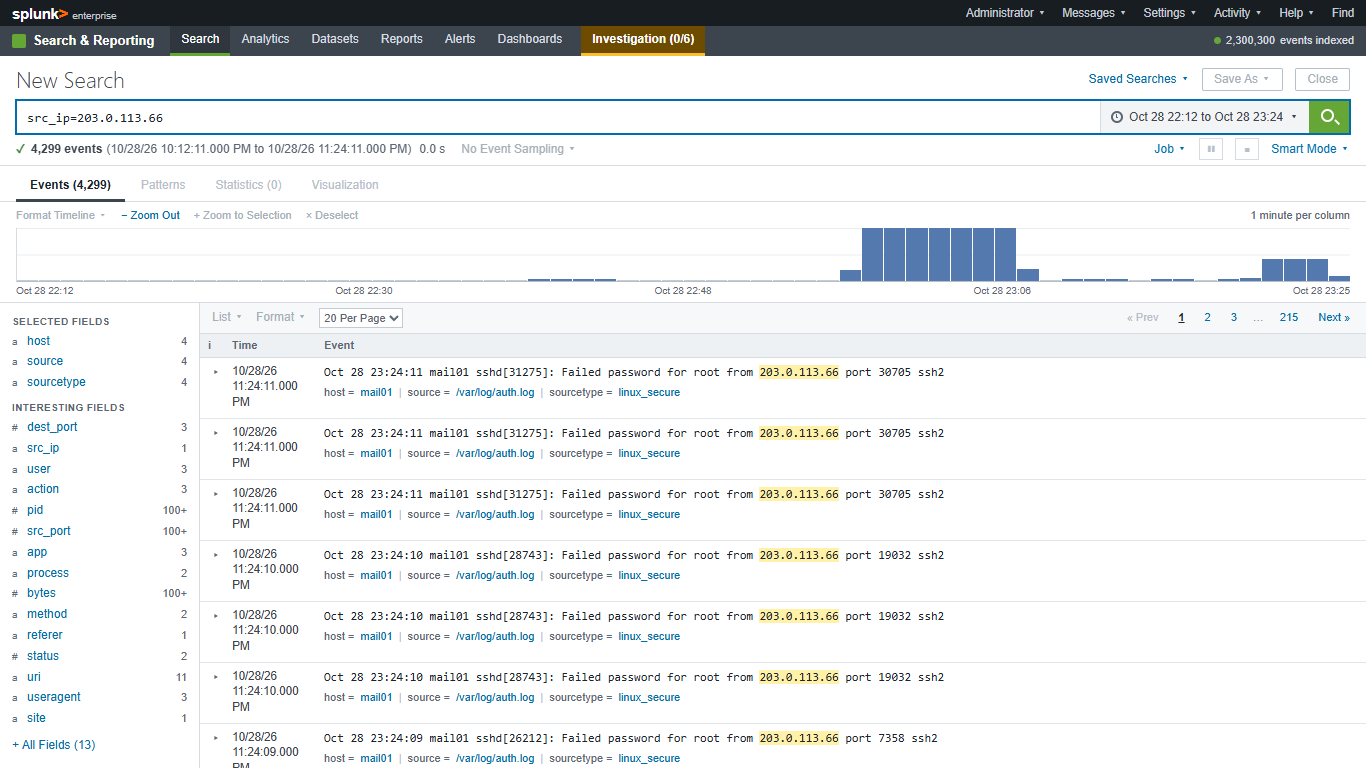
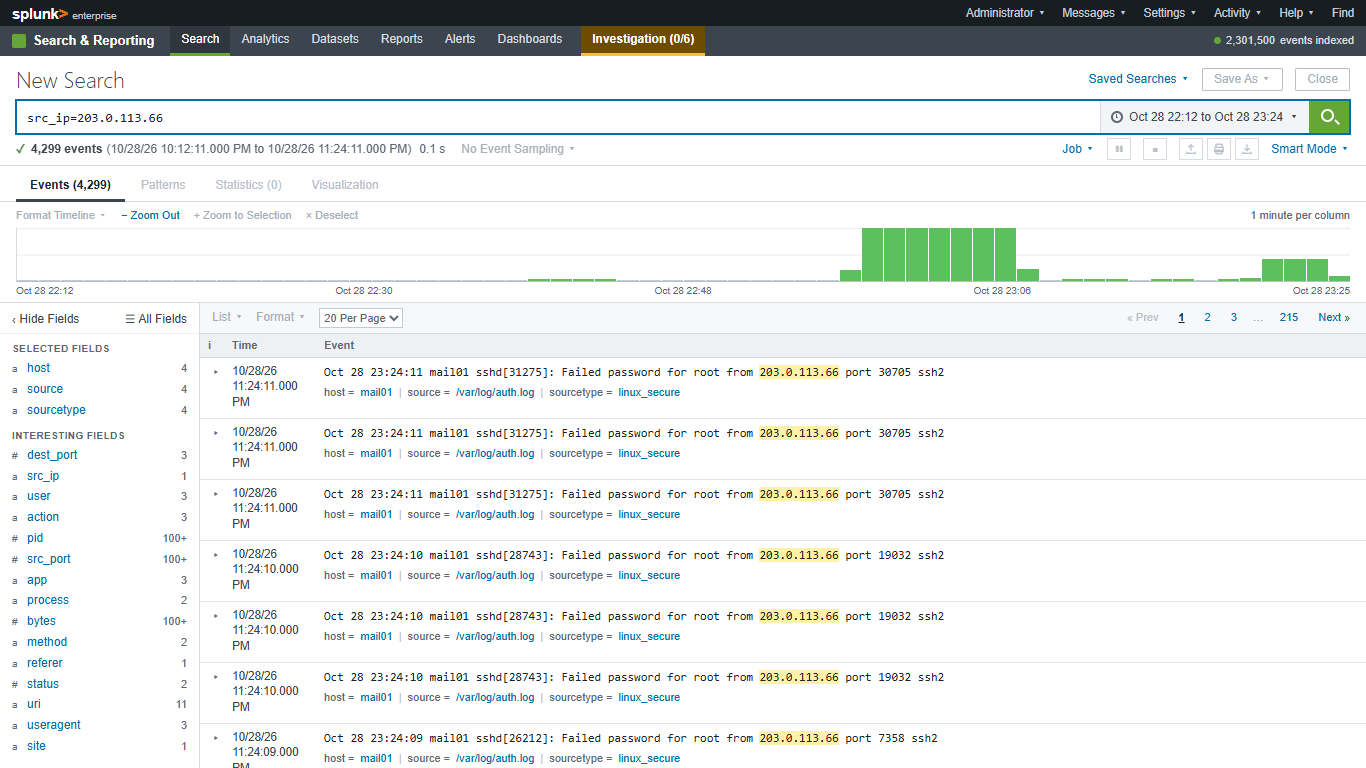
Splunk search page: match the real Splunk Events view
Fetched real Splunk Search & Reporting screenshots from Splunk's own
search tutorial into docs/reference/ (guardrail 2: Splunk reference was
missing) and compared our CCDC SIEM against them side by side.

- Timeline bars are Splunk green (#5cc05c, sampled from the reference),
  in the CCDC SIEM and the SOC console.
- Fields sidebar has the "Hide Fields / All Fields" header; Hide
  collapses it to "Show Fields". Bottom shows "N more fields" and
  "+ Extract New Fields" like the real one.
- Job toolbar has the share / print / export icons.
- shot-siem.mjs checks Hide/Show Fields and the icons; new proof
  docs/proof/siem/side-by-side-splunk-events.png.

diff --git a/src/ui/ccdc/SiemApp.js b/src/ui/ccdc/SiemApp.js
@@ -12,6 +12,21 @@ import './siem.css';
 //   parent.append(app.el);  app.refresh() once a second;  app.focus();  app.destroy();
 
 const fmt = (n) => Number(n).toLocaleString('en-US');
+// Small line icons for the Job toolbar (share, print, export), drawn like Splunk's: 12px, 1.5px stroke.
+const ICONS = {
+  share: 'M2 10v2h10v-2M7 2v7M4 5l3-3 3 3',
+  print: 'M3.5 5V1.5h7V5M2 5h10v5H2zM3.5 8.5h7v4h-7z',
+  export: 'M7 1.5v7M4 6l3 3 3-3M2 10v2h10v-2',
+};
+function icon(name) {
+  const NS = 'http://www.w3.org/2000/svg';
+  const svg = document.createElementNS(NS, 'svg');
+  svg.setAttribute('viewBox', '0 0 14 14'); svg.setAttribute('width', '12'); svg.setAttribute('height', '12'); svg.setAttribute('aria-hidden', 'true');
+  const p = document.createElementNS(NS, 'path');
+  p.setAttribute('d', ICONS[name]); p.setAttribute('fill', 'none'); p.setAttribute('stroke', 'currentColor'); p.setAttribute('stroke-width', '1.5'); p.setAttribute('stroke-linejoin', 'round');
+  svg.append(p);
+  return svg;
+}
 const PRESETS = [
   ['Last 15 minutes', 900], ['Last 60 minutes', 3600], ['Last 4 hours', 14400], ['Last 24 hours', 86400],
   ['Last 7 days', 604800], ['All time', null], ['During the round', 'round'],
@@ -107,7 +122,9 @@ export class SiemApp {
 
     this.statusEl = h('span', { class: 'sx-status' }, 'Enter a search above and press Enter.');
     this.stopBtn = h('button', { class: 'sx-ib', type: 'button', title: 'Stop the search', disabled: true, onclick: () => { if (this.job) { this.job.cancel(); this._paint(true); } } }, '■');
-    this.jobEl = h('span', { class: 'sx-job' }, h('span', { class: 'sx-link' }, 'Job ▾'), h('button', { class: 'sx-ib', type: 'button', disabled: true, title: 'Pause' }, '❚❚'), this.stopBtn, h('span', { class: 'sx-link sx-smart' }, 'Smart Mode ▾'));
+    this.jobEl = h('span', { class: 'sx-job' }, h('span', { class: 'sx-link' }, 'Job ▾'), h('button', { class: 'sx-ib', type: 'button', disabled: true, title: 'Pause' }, '❚❚'), this.stopBtn,
+      h('span', { class: 'sx-jobicons' }, ...['share', 'print', 'export'].map((n) => h('button', { class: 'sx-ib sx-ib0', type: 'button', disabled: true, title: n[0].toUpperCase() + n.slice(1), 'aria-label': n }, icon(n)))),
+      h('span', { class: 'sx-link sx-smart' }, 'Smart Mode ▾'));
     this.progEl = h('i', { class: 'sx-progfill' });
     const statusRow = h('div', { class: 'sx-statusrow' }, this.statusEl, h('span', { class: 'sx-spacer' }), this.jobEl);
     this.head = h('div', { class: 'sx-head' }, title, bar, statusRow, h('div', { class: 'sx-prog' }, this.progEl));
@@ -337,14 +354,22 @@ export class SiemApp {
       const numeric = f.top.length && f.top.every((x) => /^-?\d+(\.\d+)?$/.test(x.v));
       return h('button', { type: 'button', class: 'sx-fld', onclick: (e) => this._fieldCard(f, e.currentTarget) }, h('span', { class: 'sx-ft' }, numeric ? '#' : 'a'), h('span', { class: 'sx-fn' }, f.name), h('span', { class: 'sx-fc' }, f.capped || f.distinct >= 100 ? '100+' : String(f.distinct)));
     };
+    // Splunk's sidebar header: "‹ Hide Fields" on the left, "☰ All Fields" on the right. Hidden = a thin strip.
+    this.fieldsEl.classList.toggle('sx-fhid', !!this.fieldsHidden);
+    const flip = () => { this.fieldsHidden = !this.fieldsHidden; this._paintFields(); };
+    if (this.fieldsHidden) { this.fieldsEl.append(h('button', { class: 'sx-link sx-fhide', type: 'button', onclick: flip }, '› Show Fields')); return; }
+    this.fieldsEl.append(h('div', { class: 'sx-ftop' },
+      h('button', { class: 'sx-link sx-fhide', type: 'button', onclick: flip }, '‹ Hide Fields'),
+      h('button', { class: 'sx-link sx-fallt', type: 'button', disabled: !others.length, onclick: () => { this.allFields = !this.allFields; this._paintFields(); } }, '☰ All Fields')));
     this.fieldsEl.append(h('div', { class: 'sx-fh' }, 'SELECTED FIELDS'));
     if (!list.length) this.fieldsEl.append(h('div', { class: 'sx-dim sx-fpad' }, j.state === 'running' ? 'Searching…' : 'No fields'));
     sel.forEach((f) => this.fieldsEl.append(row(f)));
     if (interesting.length) this.fieldsEl.append(h('div', { class: 'sx-fh' }, 'INTERESTING FIELDS'), ...interesting.map(row));
     if (others.length) {
-      this.fieldsEl.append(h('button', { class: 'sx-link sx-fall', type: 'button', onclick: () => { this.allFields = !this.allFields; this._paintFields(); } }, this.allFields ? '− Fewer Fields' : `+ All Fields (${others.length})`));
+      this.fieldsEl.append(h('button', { class: 'sx-link sx-fall', type: 'button', onclick: () => { this.allFields = !this.allFields; this._paintFields(); } }, this.allFields ? '− Fewer fields' : `${others.length} more field${others.length === 1 ? '' : 's'}`));
       if (this.allFields) this.fieldsEl.append(h('div', { class: 'sx-fh' }, 'OTHER FIELDS'), ...others.map(row));
     }
+    if (list.length) this.fieldsEl.append(h('span', { class: 'sx-link off sx-fall sx-fext' }, '+ Extract New Fields'));
   }
 
   _fieldCard(f, anchor) {

diff --git a/src/ui/ccdc/siem.css b/src/ui/ccdc/siem.css
@@ -1,6 +1,6 @@
 /* SIEM search page: Splunk Enterprise "Search & Reporting" look. Everything is scoped under .sx.
    Colours follow Splunk's own light theme (top bar #171d21, app bar #3c444d, body white, text #3c444d,
-   links #006eaa, search button #65a637, timeline bars #5379af); the same values the SOC console uses in screen.css. */
+   links #006eaa, search button #65a637, timeline bars #5cc05c, sampled from docs/reference/splunk-search-timeline.png); the same values the SOC console uses in screen.css. */
 .sx { position: relative; width: 100%; height: 100%; display: flex; flex-direction: column; background: #fff; color: #3c444d; font: 12px/1.4 'Splunk Platform Sans', 'Proxima Nova', Roboto, 'Droid Sans', Helvetica, Arial, sans-serif; overflow: hidden; text-align: left; }
 .sx *, .sx *::before, .sx *::after { box-sizing: border-box; }
 .sx button, .sx input, .sx select { font: inherit; color: inherit; }
@@ -92,8 +92,8 @@
 .sx .sx-tlctl .sx-link { font-size: 11px; }
 .sx .sx-percol { color: #5c6773; font-size: 11px; }
 .sx .sx-bars { display: flex; align-items: flex-end; gap: 1px; height: 54px; border-bottom: 1px solid #b6c0c9; border-left: 1px solid #d6dce2; background: linear-gradient(#e9edf0 1px, transparent 1px) 0 0 / 100% 50%; }
-.sx .sx-bar1 { flex: 1; min-width: 2px; border: 0; padding: 0; background: #5379af; }
-.sx .sx-bar1:hover { background: #3a5f96; }
+.sx .sx-bar1 { flex: 1; min-width: 2px; border: 0; padding: 0; background: #5cc05c; }
+.sx .sx-bar1:hover { background: #3f9f3f; }
 .sx .sx-bar1.sel { background: #f58220; }
 .sx .sx-bar1.z { background: #c3cbd4; }
 .sx .sx-axis { display: flex; justify-content: space-between; font-size: 10px; color: #5c6773; padding-top: 2px; }
@@ -120,7 +120,7 @@
 .sx .sx-fv1 { position: relative; display: flex; gap: 10px; padding: 2px 0 5px; border-bottom: 1px solid #eef1f4; align-items: baseline; }
 .sx .sx-fv1 .sx-val { flex: 1; font: 11px 'Droid Sans Mono', Consolas, monospace; }
 .sx .sx-fvn { width: 52px; text-align: right; }
-.sx .sx-fvb { position: absolute; left: 0; bottom: 1px; height: 2px; background: #5379af; }
+.sx .sx-fvb { position: absolute; left: 0; bottom: 1px; height: 2px; background: #5cc05c; }
 .sx .sx-fcf { margin-top: 8px; display: flex; justify-content: space-between; gap: 8px; align-items: baseline; font-size: 10.5px; }
 
 /* pager, column header, rows */
@@ -203,3 +203,15 @@
 .sx.sx-narrow .sx-appname { font-size: 12px; }
 .sx.sx-tiny .sx-timelbl { max-width: 62px; overflow: hidden; text-overflow: ellipsis; }
 .sx.sx-tiny .sx-go { width: 34px; }
+
+/* Fields sidebar header ("‹ Hide Fields   ☰ All Fields"), hidden strip, and Job toolbar icons (Nov 21, from
+   docs/reference/splunk-search-timeline.png) */
+.sx .sx-ftop { display: flex; justify-content: space-between; align-items: center; padding: 4px 12px 6px; border-bottom: 1px solid #eef1f4; }
+.sx .sx-ftop .sx-link, .sx .sx-fhide { font-size: 12px; background: none; border: 0; padding: 0; color: #3c444d; }
+.sx .sx-ftop .sx-link:hover, .sx .sx-fhide:hover { color: #006eaa; }
+.sx .sx-ftop .sx-link:disabled { color: #b6c0c9; }
+.sx .sx-fields.sx-fhid { width: auto; padding: 6px 12px; min-height: 0; }
+.sx .sx-fext { margin-top: 10px; }
+.sx .sx-jobicons { display: inline-flex; gap: 4px; }
+.sx .sx-ib0 { display: inline-flex; align-items: center; justify-content: center; }
+.sx.sx-narrow .sx-jobicons { display: none; }

diff --git a/src/ui/screen.css b/src/ui/screen.css
@@ -248,8 +248,8 @@
 .tl-ctl button { background: none; border: 0; color: #006eaa; padding: 0; font-size: 11px; }
 .tl-ctl button:disabled { color: #b6c0c9; cursor: default; }
 .bars { display: flex; align-items: flex-end; gap: 1px; height: 40px; border-bottom: 1px solid #b6c0c9; }
-.bars .bar { flex: 1; min-width: 3px; background: #5379af; border: 0; padding: 0; }
-.bars .bar:hover { background: #3a5f96; }
+.bars .bar { flex: 1; min-width: 3px; background: #5cc05c; border: 0; padding: 0; }
+.bars .bar:hover { background: #3f9f3f; }
 .bars .bar.sel { background: #f58220; }
 .results { flex: 1; min-height: 0; overflow: auto; background: #fff; font-size: 11.5px; }
 .pager { display: flex; align-items: center; gap: 12px; padding: 4px 8px; background: #f7f8fa; border-bottom: 1px solid #d6dce2; color: #5c6773; font-size: 11px; position: sticky; top: 0; z-index: 2; }

diff --git a/docs/reference/README.md b/docs/reference/README.md
@@ -84,3 +84,21 @@ These three screens are from the public Midwest team packet (2026 Regional, gith
 
 The PAN-OS images are from Palo Alto's public pan.dev documentation repository. No reference exists yet for the NETLAB+ topology page, the ticket form or a Windows login inside NETLAB+.
 
+Splunk Search & Reporting, from Splunk's own Search Tutorial (help.splunk.com, Splunk Enterprise 9.4 docs,
+"Basic searches and search results"), © Splunk Inc. Here for comparison only:
+
+| File | Real tool | Source |
+|---|---|---|
+| splunk-search-timeline.png | Splunk search results: Events tab, green timeline, fields sidebar, event list | https://help.splunk.com/en/splunk-enterprise/get-started/search-tutorial/9.4/part-4-searching-the-tutorial-data/basic-searches-and-search-results |
+| splunk-search-events.png | Splunk search with 2 of 427 events | same page |
+| splunk-search-bar.png | Splunk New Search bar | same page |
+
+## Side-by-side: Splunk Events view (Nov 21, 2026)
+
+Proof: docs/proof/siem/side-by-side-splunk-events.png (real | ours). Already matching: header, search bar with time
+picker and green search button, "✓ N events (before ...)" line, Events/Patterns/Statistics/Visualization tabs,
+Format Timeline / Zoom Out / Zoom to Selection / Deselect row, "N per column", List / Format / 20 Per Page, Prev 1 2 3
+Next, i | Time | Event columns, host / source / sourcetype under each event, yellow search-term highlight.
+Fixed this pass: timeline bars were blue, now Splunk green (#5cc05c, sampled from the reference); the fields
+sidebar now has the "‹ Hide Fields   ☰ All Fields" header (Hide collapses it to "› Show Fields"), "N more fields"
+and "+ Extract New Fields"; the Job bar has the share / print / export icons.
